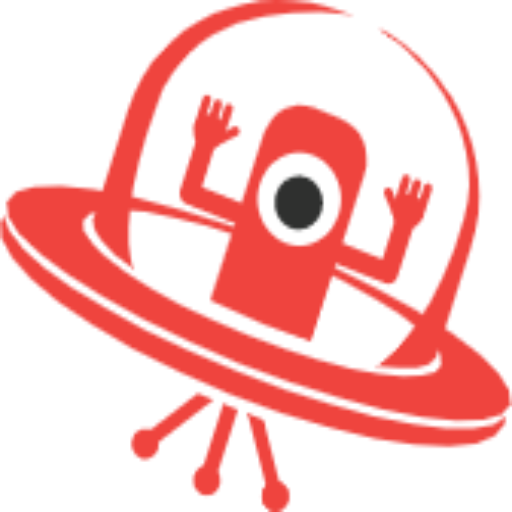
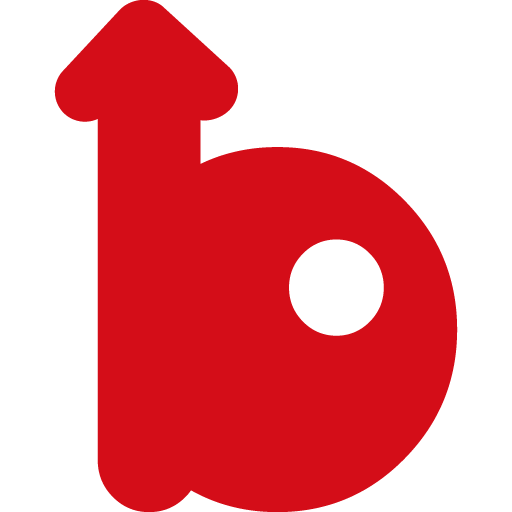
인끼업->붐업 로고 및 텍스트 변경

diff --git a/public/css/site.css b/public/css/site.css
@@ -188,21 +188,22 @@ screen\9 {
 }
 .logotitle {
     display: inline-block;
-    background: url('../img/logotitle.svg') no-repeat center center;
+    background: url('../img/boomup_logotitle.svg') no-repeat center center;
     background-size: auto;
     min-height: 28px;
     min-width: 92px;
 }
 .logotitle2 {
     display: inline-block;
-    background: url('../img/logotitle.svg') no-repeat center center;
+    background: url('../img/boomup_logotitle.svg') no-repeat center center;
     background-size: auto;
     min-height: 50px;
     min-width: 163px;
 }
 .logotitle3 {
     display: inline-block;
-    background: url('../img/logotitle.svg') no-repeat center center;
+    /* background: url('../img/logotitle.svg') no-repeat center center; */
+    background: url('../img/boomup_logotitle.svg') no-repeat center center;
     background-size: auto;
     min-height: 36.1px;
     min-width: 153.2px;
